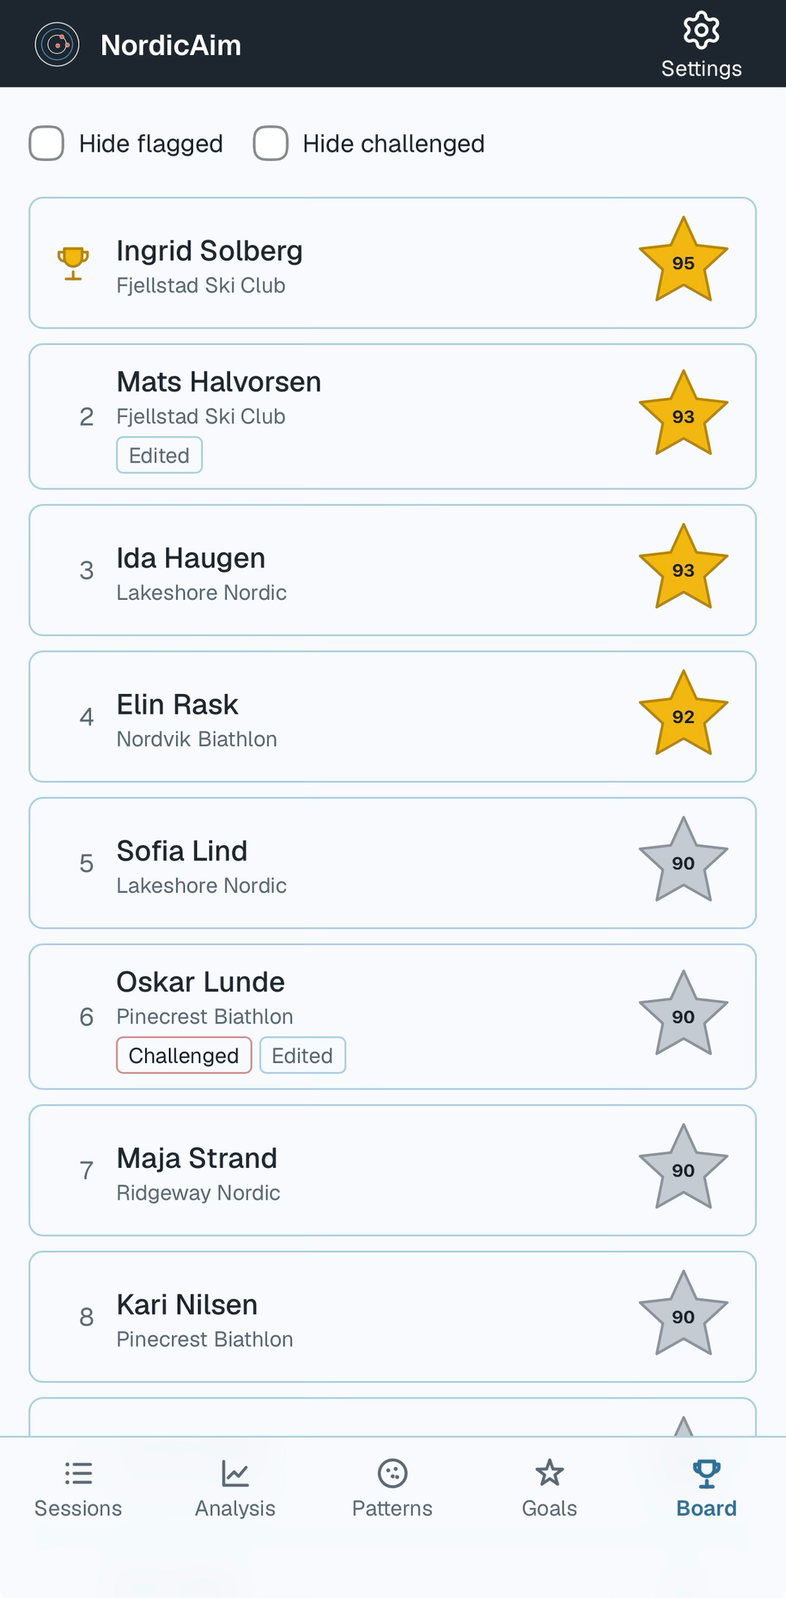
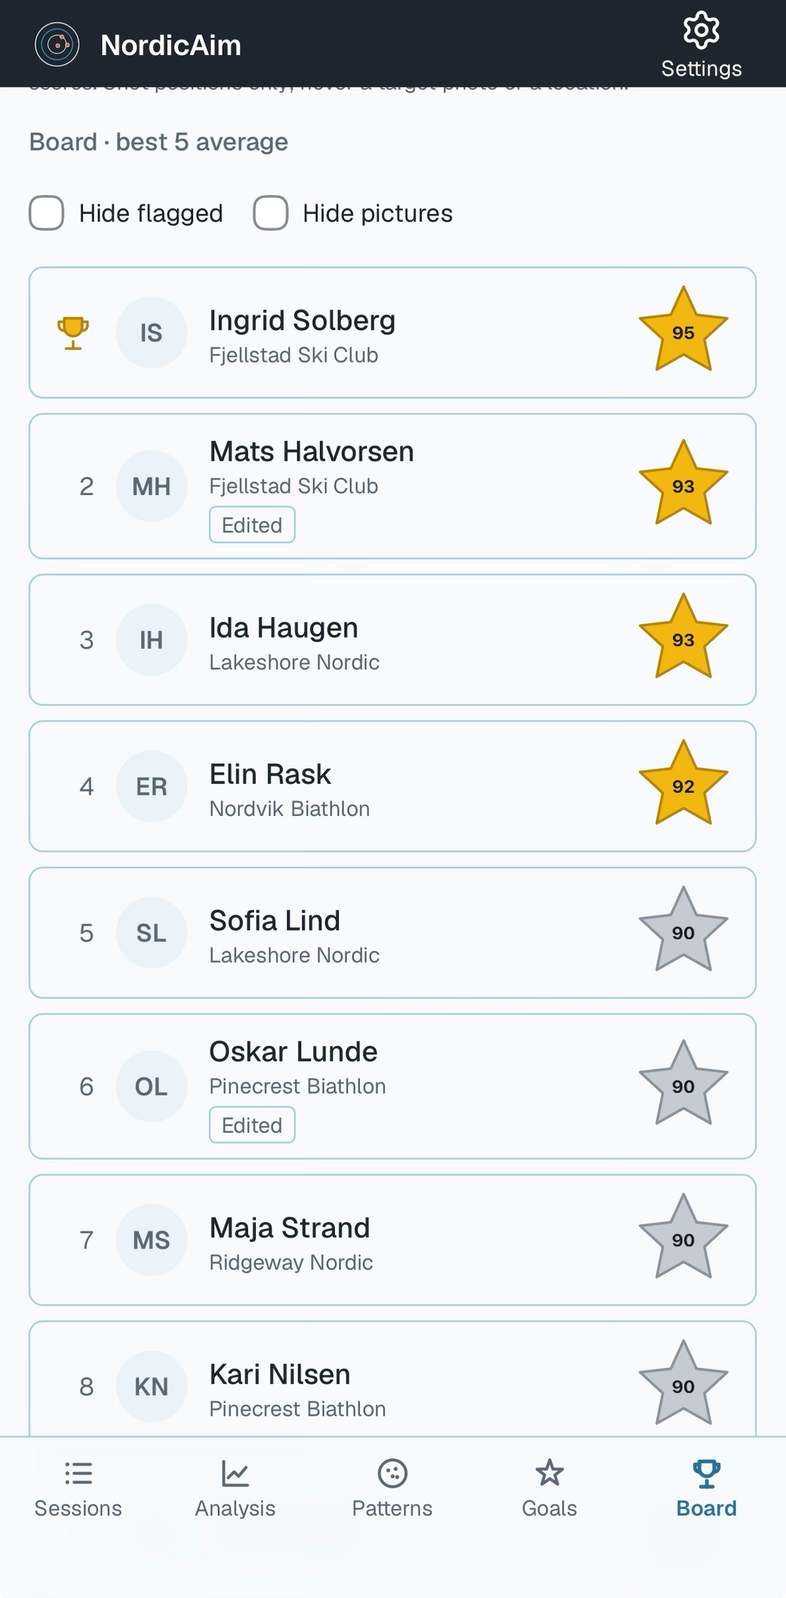
Docs: Board list screenshot from the owner's iPhone, with initials and Hide pictures
Claude-Session: https://claude.ai/code/session_011nJupxVuQvQUQUo39E3m88

diff --git a/docs/guide/README.md b/docs/guide/README.md
@@ -249,7 +249,7 @@ The Board ranks shooters by the **average of their best 5 precision targets**, o
 A newer submission from the same shooter replaces the older one, and importing the same file twice changes nothing. A board keeps the best 100 shooters.
 
 <p align="center">
-  <img src="../assets/screens/board-list.png" width="300" alt="A board of fictional shooters: a gold trophy in place of first, each average in a gold or silver star, and an Edited mark">
+  <img src="../assets/screens/board-list.png" width="300" alt="A board of fictional shooters: a gold trophy in place of first, each shooter's initials where a picture would be, each average in a gold or silver star, and Edited marks">
   &nbsp;
   <img src="../assets/screens/board-entry.png" width="300" alt="One fictional shooter's entry opened: five targets with date, score and X count, one marked Edited and Flagged with its automatic score">
 </p>
